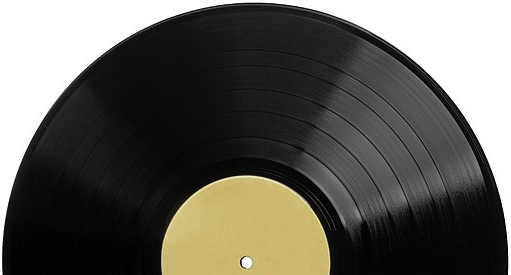
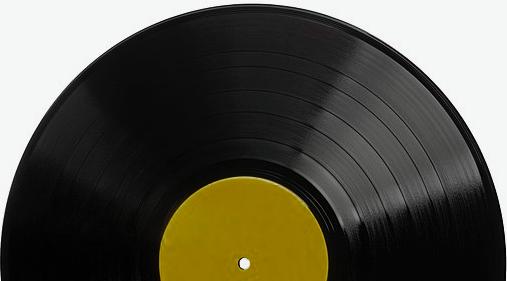
path fixed some more styling

diff --git a/public/stylesheets/style.css b/public/stylesheets/style.css
@@ -48,27 +48,33 @@ a {
 footer {
   grid-area: footer;
   grid-row: span 2;
+  display: flex;
+  flex-direction: row;
+  align-content: center;
+  justify-content: space-evenly;
   width: 670px;
   height: 90px;
-  margin: -2% auto 0 auto;
+  margin: -1% auto 0 22%;
   color: white;
 }
 
 p {
   width: 30%;
   font-size: 12px;
-  float: right;
 }
 
 .instructions {
-  float: right;
-  margin: 0 8% 0 auto;
-  background-color: rgb(240,0,100)
+  font-size: 24px;
+  height: 40px;
+  background-color: rgb(240,0,100);
+  border-radius: 10px;
 }
 
 .newButton {
-  float: left;
-  margin: 0 auto 0 10%;
+  font-size: 24px;
+  height: 40px;
+  background-color: rgb(50,100,200);
+  border-radius: 10px;
 }
 
 /* SHOW */
@@ -112,6 +118,10 @@ h5 {
 .form {
   margin: -15px auto 25px auto;
   background-color: rgba(0,0,0,.7);
+  background-image: url('/images/record.png');
+  background-position: center;
+  background-repeat: no-repeat;
+  background-size: cover;
   height: 100vh;
   width: 100vw;
   display: flex;
@@ -123,8 +133,6 @@ h5 {
 form {
   display: flex;
   flex-direction: column;
-  justify-content: center;
-  align-items: center;
 }
 
 .submitButton {

diff --git a/controllers/artist.js b/controllers/artist.js
@@ -14,6 +14,7 @@ const artistController = {
     },
     show: (req, res) => {
         Artist.findById(req.params.id).populate('artistAlbum').then((artist) => {
+            console.log(artist)
             res.render(
                 'artist/show',
                 { artist: artist }
@@ -21,8 +22,8 @@ const artistController = {
         })
     },
     create: (req, res) => {
-        Artist.create(req.body).then((savedArtist) => {
-            res.redirect('index')
+        Artist.create(req.body).then(() => {
+            res.redirect('/')
         })
     },
     edit: (req, res) => {
@@ -39,7 +40,7 @@ const artistController = {
     },
     delete: (req, res) => {
         Artist.findByIdAndRemove(req.params.id).then(() => {
-            res.redirect('index')
+            res.redirect('/')
         })
     }
 }
